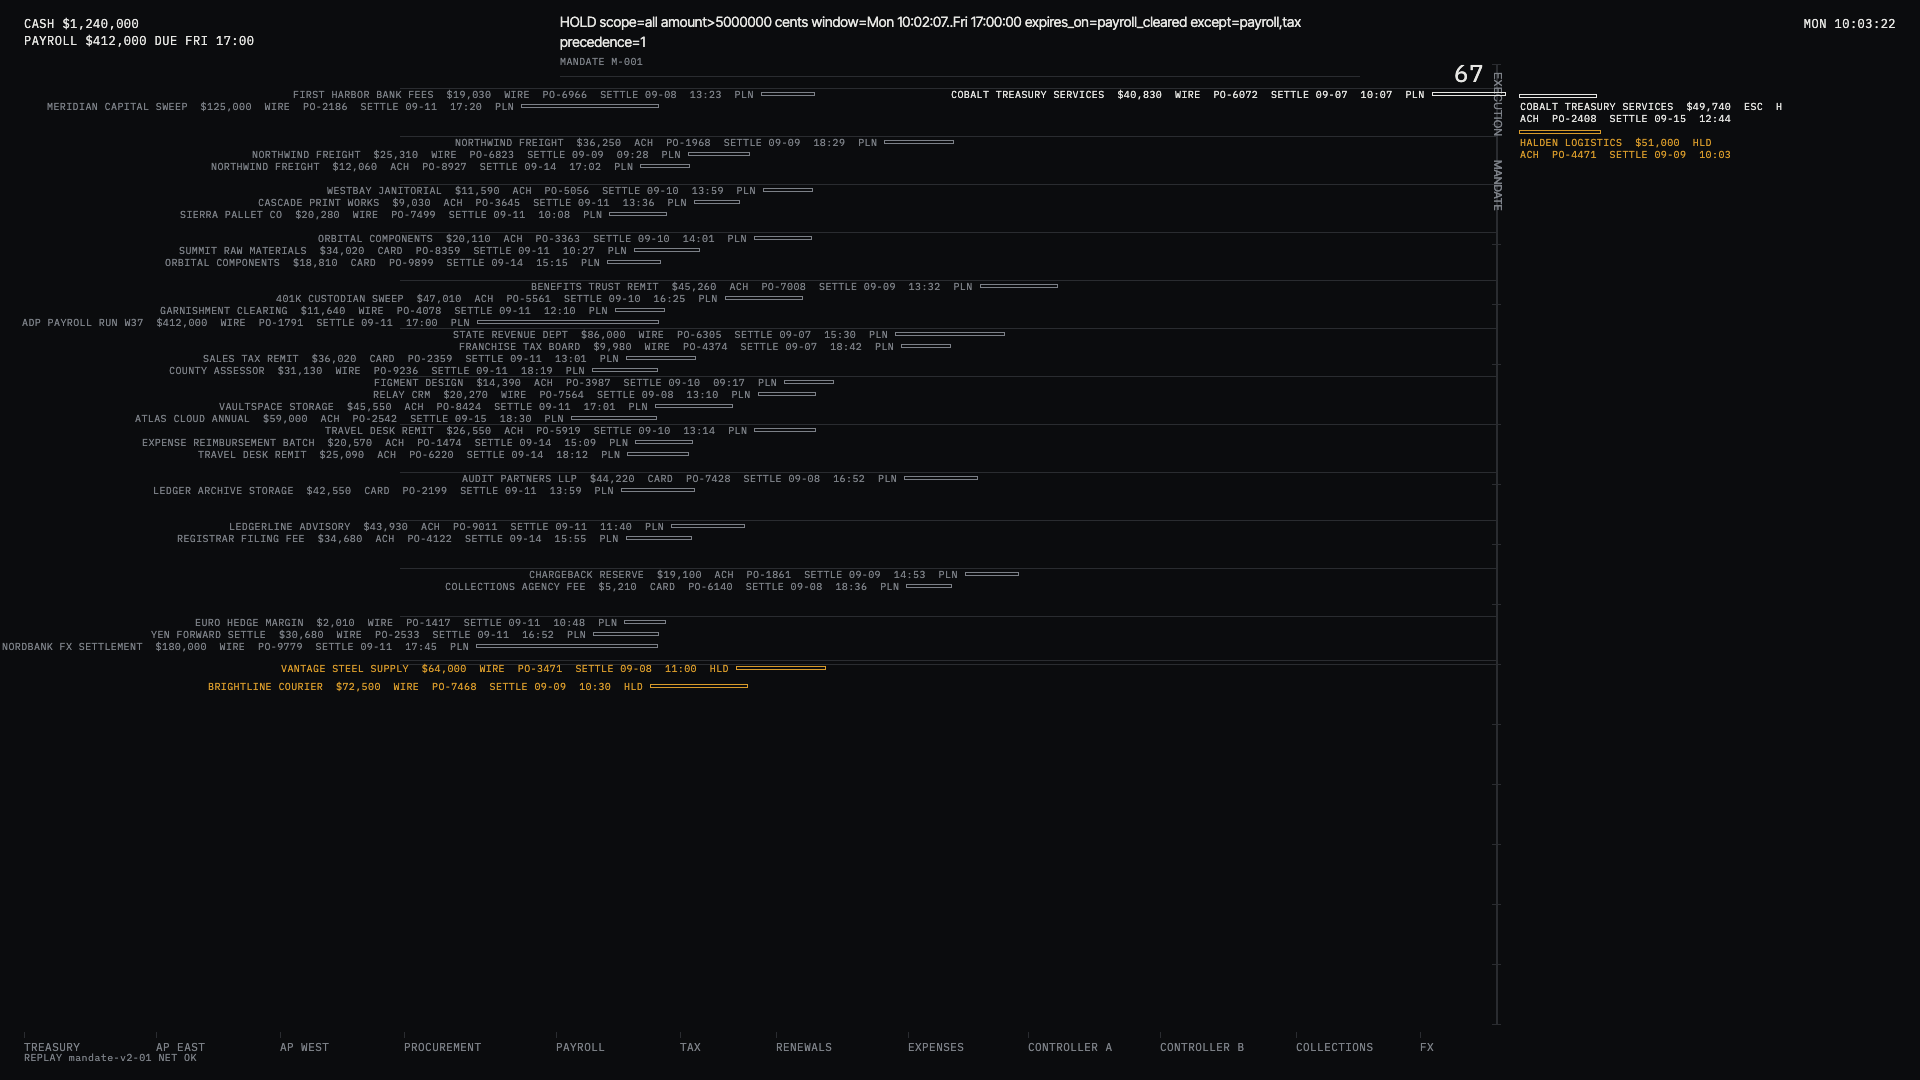
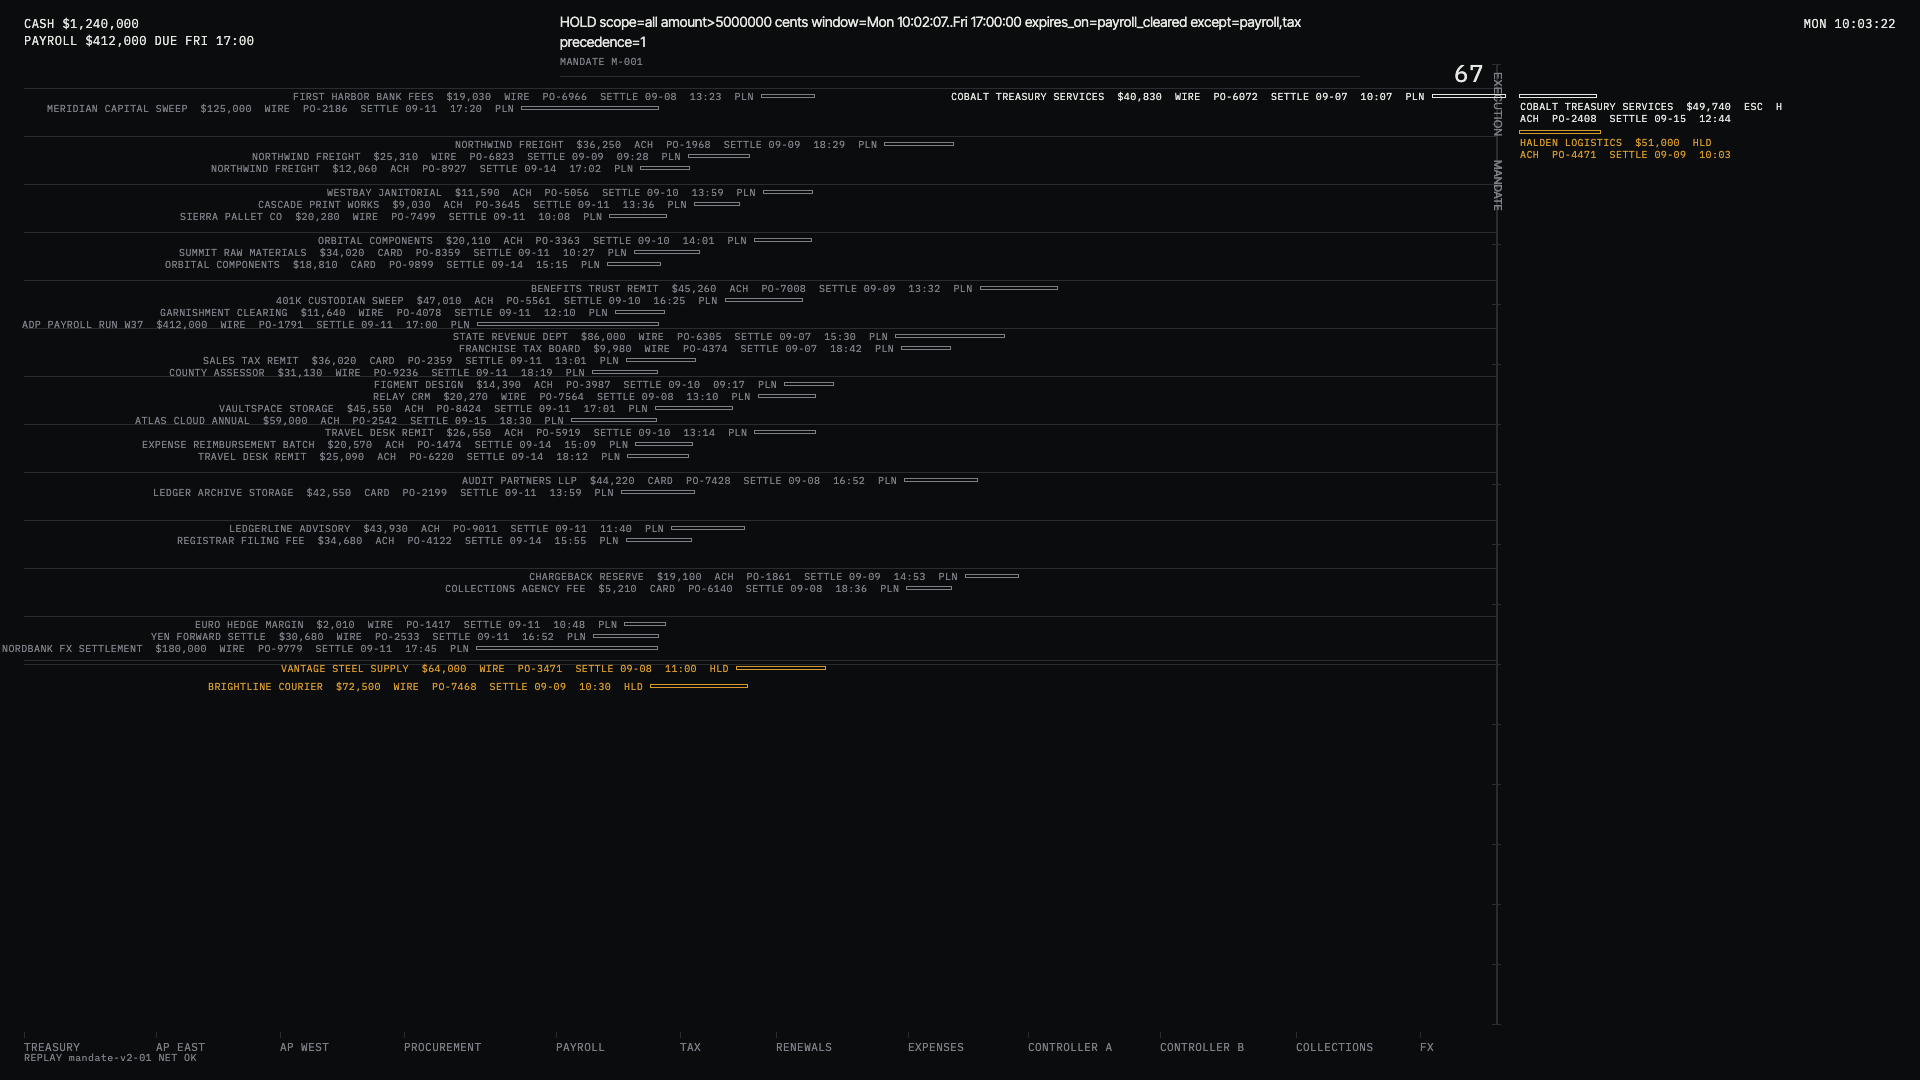
floor polish

diff --git a/frontend/src/floor.ts b/frontend/src/floor.ts
@@ -24,6 +24,14 @@ interface Sprite {
 const ONE_MIN = 60_000;
 const LOG_RANGE = Math.log((LAYOUT.daysAtLeft * 1440) / LAYOUT.minutesAtLine);
 
+function lerpColor(a: number, b: number, t: number): number {
+  if (t <= 0) return a;
+  if (t >= 1) return b;
+  const ch = (x: number, s: number) => (x >> s) & 0xff;
+  const mix = (s: number) => Math.round(ch(a, s) + (ch(b, s) - ch(a, s)) * t);
+  return (mix(16) << 16) | (mix(8) << 8) | mix(0);
+}
+
 export class Floor {
   app = new Application();
   lanes: Container[] = [];
@@ -42,6 +50,8 @@ export class Floor {
   private fpsAt = performance.now();
   fps = 0;
   private emphasis: number | null = null;
+  private emphasisT = 0;
+  private emphasisState = { t: 0 };
 
   constructor(private model: Model, private clock: Clock, private onClickPayment: (p: Payment) => void) {}
 
@@ -124,8 +134,8 @@ export class Floor {
   private drawStatic(): void {
     const g = this.staticG;
     g.clear();
-    for (let i = 0; i <= this.lanes.length; i++) g.rect(LAYOUT.leftX - 240, LAYOUT.laneTop + i * LAYOUT.laneH, LAYOUT.lineX - (LAYOUT.leftX - 240), 1).fill(COLOR.rule);
-    g.rect(LAYOUT.leftX - 240, LAYOUT.holdY - 8, LAYOUT.lineX - (LAYOUT.leftX - 240), 1).fill(COLOR.rule);
+    for (let i = 0; i <= this.lanes.length; i++) g.rect(24, LAYOUT.laneTop + i * LAYOUT.laneH, LAYOUT.lineX - 24, 1).fill(COLOR.rule);
+    g.rect(24, LAYOUT.holdY - 8, LAYOUT.lineX - 24, 1).fill(COLOR.rule);
     this.labelX.forEach((x) => g.rect(x, LAYOUT.labelY - 8, 1, 6).fill(COLOR.rule));
     const r = this.rulerG;
     r.clear();
@@ -141,7 +151,7 @@ export class Floor {
   }
 
   laneCenter(lane: number): number {
-    return LAYOUT.laneTop + lane * LAYOUT.laneH + 6; // first of four 12px rows inside a 48px lane
+    return LAYOUT.laneTop + lane * LAYOUT.laneH + 8; // rows at +8/+20/+32/+44: four 12px rows, all on the 4px grid
   }
 
   rebind(): void {
@@ -177,17 +187,34 @@ export class Floor {
     ];
   }
 
-  colorOf(p: Payment): number {
+  baseColor(p: Payment): number {
     if (p.red) return COLOR.red;
     if (p.code === "HLD" || (p.code === "ESC" && p.place === "esc" && !p.glyph)) return COLOR.amber;
-    if (this.emphasis !== null) return p.lane === this.emphasis ? COLOR.text : COLOR.muted;
     if (p.cleared || p.code === "DONE") return COLOR.muted;
     return COLOR.text;
   }
 
-  private redraw(sp: Sprite): void {
+  // emphasis: the addressed lane reads #E6E6E3, every other lane #7C8087; blended by emphasisT during the 240ms tween
+  colorOf(p: Payment): number {
+    const base = this.baseColor(p);
+    if (this.emphasis === null && this.emphasisT === 0) return base;
+    const target = this.emphasis !== null && p.lane === this.emphasis ? COLOR.text : COLOR.muted;
+    return lerpColor(base, target, this.emphasisT);
+  }
+
+  private redraw(sp: Sprite, colorOnly = false): void {
     const p = sp.p;
     const color = this.colorOf(p);
+    if (colorOnly) {
+      if (color === sp.color) return;
+      sp.color = color;
+      sp.tag.style.fill = color;
+      sp.tag2.style.fill = color;
+      sp.rect.clear();
+      if (p.place === "done") sp.rect.rect(0, 0, 1, 8).fill(color);
+      else sp.rect.rect(0, 0, sp.width, 2).stroke({ width: 1, color, alignment: 0 });
+      return;
+    }
     const inColumn = p.place === "esc";
     const [row1, row2] = inColumn ? this.tagRows(p) : [this.tagText(p), ""];
     const key = `${inColumn ? "c" : "l"}|${row1}|${row2}`;
@@ -245,17 +272,25 @@ export class Floor {
   }
 
   setEmphasis(lane: number | null): void {
-    this.emphasis = lane;
-    this.labels.forEach((t, i) => {
-      t.style.fill = lane === null ? COLOR.muted : i === lane ? COLOR.text : COLOR.muted;
+    if (lane !== null) this.emphasis = lane;
+    const target = lane === null ? 0 : 1;
+    gsap.killTweensOf(this.emphasisState);
+    gsap.to(this.emphasisState, {
+      t: target,
+      duration: MOTION.fast,
+      ease: MOTION.ease,
+      onUpdate: () => {
+        this.emphasisT = this.emphasisState.t;
+        this.labels.forEach((lbl, i) => {
+          const to = this.emphasis !== null && i === this.emphasis ? COLOR.text : COLOR.muted;
+          lbl.style.fill = lerpColor(COLOR.muted, to, this.emphasisT);
+        });
+        for (const sp of this.sprites.values()) this.redraw(sp, true);
+      },
+      onComplete: () => {
+        if (target === 0) this.emphasis = null;
+      },
     });
-    for (const sp of this.sprites.values()) {
-      const to = lane === null || sp.p.lane === lane ? 1 : 0.7;
-      gsap.to(sp.tag, { alpha: to, duration: MOTION.fast, ease: MOTION.ease });
-      gsap.to(sp.tag2, { alpha: to, duration: MOTION.fast, ease: MOTION.ease });
-      gsap.to(sp.rect, { alpha: to, duration: MOTION.fast, ease: MOTION.ease });
-      this.redraw(sp);
-    }
   }
 
   startCounter(): void {
@@ -271,7 +306,10 @@ export class Floor {
     this.rebind();
     this.counterActive = false;
     this.counter.text = "";
+    gsap.killTweensOf(this.emphasisState);
     this.emphasis = null;
+    this.emphasisT = this.emphasisState.t = 0;
+    this.labels.forEach((lbl) => (lbl.style.fill = COLOR.muted));
     for (const sp of this.sprites.values()) {
       gsap.killTweensOf(sp);
       sp.y = sp.targetY = this.laneCenter(sp.p.lane);

diff --git a/frontend/src/overlays.ts b/frontend/src/overlays.ts
@@ -35,7 +35,7 @@ export function showMandate(text: string, label: string): void {
   el.querySelector(".text")!.textContent = text;
   el.querySelector(".id")!.textContent = label;
   el.style.display = "block";
-  gsap.fromTo(el, { opacity: 0, y: -8 }, { opacity: 1, y: 0, duration: MOTION.fast, ease: MOTION.ease });
+  gsap.fromTo(el, { y: -8 }, { y: 0, duration: MOTION.fast, ease: MOTION.ease });
 }
 
 export function showReadback(text: string, label: string): void {
@@ -75,7 +75,7 @@ function setAnswer(html: string, sticky: boolean): void {
     answerTimer = null;
   }
   el.innerHTML = html;
-  gsap.fromTo(el, { x: 12, opacity: 0 }, { x: 0, opacity: 1, duration: MOTION.fast, ease: MOTION.ease });
+  gsap.fromTo(el, { x: 12 }, { x: 0, duration: MOTION.fast, ease: MOTION.ease });
   if (!sticky) answerTimer = window.setTimeout(() => (el.innerHTML = ""), 6000);
 }
 
